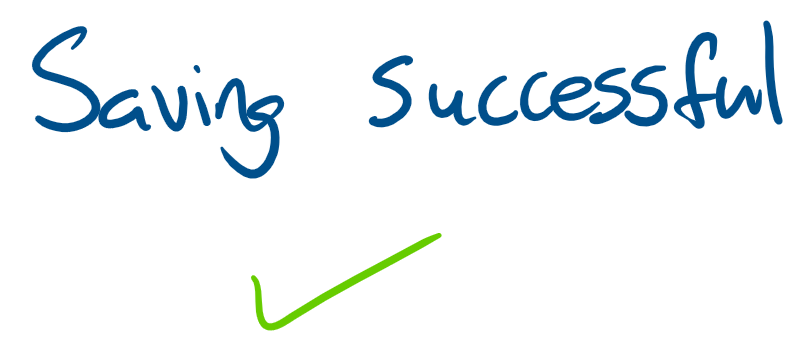
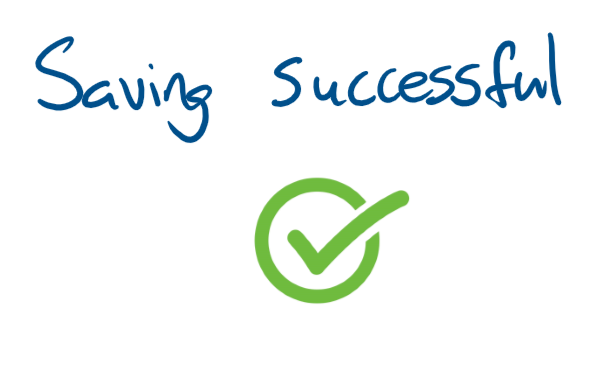
Test checkStyle

Changed region(s): [[0.4478, 0.0618, 0.9851, 0.3708], [0.2985, 0.4635, 0.6866, 0.927], [0.0299, 0.0618, 0.3582, 0.5253]]

diff --git a/src/main/ui/GUI2.java b/src/main/ui/GUI2.java
@@ -1,5 +1,7 @@
 package ui;
 
+import model.Event;
+import model.EventLog;
 import model.Student;
 import model.TutorOrganization;
 import persistence.JsonReader;
@@ -163,6 +165,7 @@ public class GUI2 implements ActionListener {
             makeLoadingTable();
         } else if (e.getSource() == quitButton) {
             //mainFrame.dispose();
+            printEvents();
             System.exit(0);
         } else if (e.getSource() == viewBookings) {
             makeLoadingTable();
@@ -176,6 +179,28 @@ public class GUI2 implements ActionListener {
             findFullSlots();
         }
     }
+
+    public void printEvents() {
+        for (Event e : EventLog.getInstance()) {
+            System.out.println("Event: " + e.getDescription() + " on " + e.getDate());
+        }
+    }
+/*
+    @Override
+    public void printLog(EventLog el) throws LogException {
+        try {
+            for (Event next : el) {
+                fw.write(next.toString());
+                fw.write("\n\n");
+            }
+            fw.flush();
+            fw.close();
+        } catch (IOException e) {
+            throw new LogException("Cannot write to file");
+        }
+    }
+
+ */
 
     // EFFECTS: Displays a list of times slots along with the name that are already taken
     public void findFullSlots() {
@@ -270,7 +295,7 @@ public class GUI2 implements ActionListener {
     }
 
     // EFFECTS: Constructs a JTABLE with each row representing a time slot and the name of the student if it is full
-    //          False if slot is empty
+    //          if slot is empty return "empty"
     @SuppressWarnings("methodlength")
     public void makeLoadingTable() {
 
@@ -327,14 +352,14 @@ public class GUI2 implements ActionListener {
     // EFFECTS: Constructs new frame with an image indicating this TutorOrganization is saved
     public void savingWindow() {
         savingFrame = new JFrame("Saving Window");
-        savingFrame.setSize(820, 600);
+        savingFrame.setSize(735, 570);
         savingFrame.setLayout(null);
         savingFrame.setDefaultCloseOperation(JFrame.HIDE_ON_CLOSE);
         savingFrame.setLocationRelativeTo(null);
         savingFrame.setVisible(true);
 
         savingImage = new JLabel(new ImageIcon("./data/saving_image.PNG"));
-        savingImage.setBounds(10, 0, 770, 500);
+        savingImage.setBounds(5, 0, 700, 500);
         savingImage.setVisible(true);
         savingFrame.add(savingImage);
     }
@@ -378,7 +403,7 @@ public class GUI2 implements ActionListener {
     // EFFECTS: Creates a frame confirming unsuccessful booking
     private void bookingIsUnsuccessful(int time) {
         insuccessfullBooking = new JFrame();
-        insuccessfullBooking.setSize(1100, 590);
+        insuccessfullBooking.setSize(920, 590);
         insuccessfullBooking.setLayout(null);
         insuccessfullBooking.setDefaultCloseOperation(JFrame.HIDE_ON_CLOSE);
         insuccessfullBooking.setLocationRelativeTo(null);
@@ -387,11 +412,11 @@ public class GUI2 implements ActionListener {
         insuccessfullLabel = new JLabel(user + " your requested session at " + time
                 + " is taken please select another time.");
         insuccessfullLabel.setFont(new Font(Font.DIALOG, Font.PLAIN, 25));
-        insuccessfullLabel.setBounds(10,10, 800, 50);
+        insuccessfullLabel.setBounds(10,10, 880, 50);
         insuccessfullBooking.add(insuccessfullLabel);
 
         insuccessfullImage = new JLabel(new ImageIcon("./data/unsuccessful_image.PNG"));
-        insuccessfullImage.setBounds(50, 60, 1000, 450);
+        insuccessfullImage.setBounds(50, 60, 800, 450);
         insuccessfullImage.setVisible(true);
         insuccessfullBooking.add(insuccessfullImage);
     }
@@ -408,7 +433,7 @@ public class GUI2 implements ActionListener {
 
         successfullLabel = new JLabel(user + " your session is available, appointment is made for " + time + ".");
         successfullLabel.setFont(new Font(Font.DIALOG, Font.PLAIN, 25));
-        successfullLabel.setBounds(10, 10, 700, 50);
+        successfullLabel.setBounds(10, 10, 850, 50);
         successfullBooking.add(successfullLabel);
 
         successfullImage = new JLabel(new ImageIcon("./data/successful_image.PNG"));
@@ -444,7 +469,6 @@ public class GUI2 implements ActionListener {
         success.setBounds(10, 110, 300, 25);
         bookingFrame.add(success);
         //success.setText();
-
          */
     }
 
@@ -504,17 +528,21 @@ public class GUI2 implements ActionListener {
             tutorOrganization = jsonReader.read();
         } catch (IOException e) {
             JFrame exceptionFrame = new JFrame();
+
             exceptionFrame.setSize(200, 200);
             exceptionFrame.setLayout(null);
             exceptionFrame.setDefaultCloseOperation(JFrame.HIDE_ON_CLOSE);
             exceptionFrame.setLocationRelativeTo(null);
             exceptionFrame.setVisible(true);
 
+            /*
             JLabel exceptionLabel = new JLabel("Unable to read from file: " + JSON_STORE);
             exceptionLabel.setFont(new Font(Font.DIALOG, Font.PLAIN, 25));
             exceptionLabel.setBounds(0, 0, 200, 50);
 
             exceptionFrame.add(exceptionLabel);
+
+             */
         }
     }
 }

diff --git a/src/main/model/TutorOrganization.java b/src/main/model/TutorOrganization.java
@@ -34,10 +34,13 @@ public class TutorOrganization implements Writable {
     // EFFECTS: gets student booked into requested appointmentTime if it is free
     public boolean makeNewTutorSession(Student s, int appointmentTime) {
         if (appointmentTime >= bookingTimes.size()) {
+            //EventLog.getInstance().logEvent(new Event("Failed"));
             return false;
         }
         Student student = new Student(s.getStudentName(), appointmentTime);
         bookingTimes.set(appointmentTime, student);
+        EventLog.getInstance().logEvent(new Event("Successful Booking Session for "
+                + student.getStudentName() + " at " + appointmentTime));
         //s.setBookedSession(appointmentTime);
         return true;
     }
@@ -64,8 +67,11 @@ public class TutorOrganization implements Writable {
     public boolean checkIfTaken(int appointmentTime) {
         if (bookingTimes.get(appointmentTime) == null) {
             return false;
+        } else {
+            EventLog.getInstance().logEvent(new Event("Unsuccessful Booking Session at " + appointmentTime));
+            return true;
         }
-        return true;
+
     }
 
     // REQUIRES: current appointment the student has booked
@@ -106,6 +112,8 @@ public class TutorOrganization implements Writable {
     public JSONObject toJson() {
         JSONObject json = new JSONObject();
         json.put("tutorOrganization", bookingTimesToJson());
+
+        EventLog.getInstance().logEvent(new Event("Tutor Organization Saved"));
         return json;
     }
 
@@ -117,8 +125,10 @@ public class TutorOrganization implements Writable {
         for (Student s : bookingTimes) {
             if (s != null) {
                 jsonArray.put(s.toJson());
+                //EventLog.getInstance().logEvent(new Event("Hello"));
             }
         }
+        //EventLog.getInstance().logEvent(new Event("Tutor Organization Loaded"));
         return jsonArray;
     }
 }

diff --git a/src/main/model/Event.java b/src/main/model/Event.java
@@ -1,0 +1,69 @@
+package model;
+
+import java.util.Calendar;
+import java.util.Date;
+
+/**
+ * Represents an alarm system event.
+ */
+
+public class Event {
+
+    private static final int HASH_CONSTANT = 13;
+    private Date dateLogged;
+    private String description;
+
+    /**
+     * Creates an event with the given description
+     * and the current date/time stamp.
+     * @param description  a description of the event
+     */
+    public Event(String description) {
+        dateLogged = Calendar.getInstance().getTime();
+        this.description = description;
+    }
+
+    /**
+     * Gets the date of this event (includes time).
+     * @return  the date of the event
+     */
+    public Date getDate() {
+        return dateLogged;
+    }
+
+    /**
+     * Gets the description of this event.
+     * @return  the description of the event
+     */
+    public String getDescription() {
+        return description;
+    }
+
+    @Override
+    public boolean equals(Object other) {
+        if (other == null) {  // remover curly
+            return false;
+        }
+
+        if (other.getClass() != this.getClass()) { // remove curly
+            return false;
+        }
+
+        Event otherEvent = (Event) other;
+
+        return (this.dateLogged.equals(otherEvent.dateLogged)
+                && this.description.equals(otherEvent.description));
+    }
+
+    @Override
+    public int hashCode() {
+        return (HASH_CONSTANT * dateLogged.hashCode() + description.hashCode());
+    }
+
+    @Override
+    public String toString() {
+        return dateLogged.toString() + "\n" + description;
+    }
+
+
+}

diff --git a/src/main/model/EventLog.java b/src/main/model/EventLog.java
@@ -1,0 +1,63 @@
+package model;
+
+import java.util.ArrayList;
+import java.util.Collection;
+import java.util.Iterator;
+
+/**
+ * Represents a log of alarm system events.
+ * We use the Singleton Design Pattern to ensure that there is only
+ * one EventLog in the system and that the system has global access
+ * to the single instance of the EventLog.
+ */
+public class EventLog implements Iterable<Event> {
+
+    /** the only EventLog in the system (Singleton Design Pattern) */
+    private static EventLog theLog;
+    private Collection<Event> events;
+
+    /**
+     * Prevent external construction.
+     * (Singleton Design Pattern).
+     */
+    private EventLog() {
+        events = new ArrayList<Event>();
+    }
+
+    /**
+     * Gets instance of EventLog - creates it
+     * if it doesn't already exist.
+     * (Singleton Design Pattern)
+     * @return  instance of EventLog
+     */
+    public static EventLog getInstance() {
+        if (theLog == null) { // remove curly
+            theLog = new EventLog();
+        }
+
+        return theLog;
+    }
+
+    /**
+     * Adds an event to the event log.
+     * @param e the event to be added
+     */
+    public void logEvent(Event e) {
+        events.add(e);
+    }
+
+    /**
+     * Clears the event log and logs the event.
+     */
+    public void clear() {
+        events.clear();
+        logEvent(new Event("Event log cleared."));
+    }
+
+    @Override
+    public Iterator<Event> iterator() {
+        return events.iterator();
+    }
+
+
+}

diff --git a/src/main/model/Student.java b/src/main/model/Student.java
@@ -55,6 +55,7 @@ public class Student implements Writable {
         JSONObject json = new JSONObject();
         json.put("name", studentName);
         json.put("int", bookedSession);
+        //EventLog.getInstance().logEvent(new Event("Loaded"));
         return json;
     }
 

diff --git a/README.md b/README.md
@@ -78,3 +78,28 @@ a link to the repository if you want to check it out and look at the similaritie
 
 gh repo clone github.students.cs.ubc.ca/CPSC210/JsonSerializationDemo
 
+### Phase 4: Task 2
+Event: Successful Booking Session for Arshdeep at 15 on Wed Mar 30 12:33:23 PDT 2022
+
+Event: Successful Booking Session for Jason at 4 on Wed Mar 30 12:33:31 PDT 2022
+
+Event: Successful Booking Session for Luke at 12 on Wed Mar 30 12:33:44 PDT 2022
+
+Event: Unsuccessful Booking Session at 12 on Wed Mar 30 12:33:50 PDT 2022
+
+Event: Successful Booking Session for Jason at 14 on Wed Mar 30 12:33:59 PDT 2022
+
+Event: Unsuccessful Booking Session at 14 on Wed Mar 30 12:34:01 PDT 2022
+
+Event: Tutor Organization Saved on Wed Mar 30 12:34:06 PDT 2022
+
+### Phase 4: Task 3
+Add a section at the end of your README.md file entitled "Phase 4: Task 3". 
+Reflect on the design presented in your UML class diagram.  
+If you had more time to work on the project, is there any refactoring that you would do to improve your design?
+If so, describe the changes you would make in point form in this section of your README.md file.
+
+- I would definitely implement some refactoring within my GUI as there is a lot of duplication in relation with the swing
+objects. For example almost all my JLabels and JButtons needed to set the visibility to true and had to have their 
+bounds set for every single instance of it.
+- I would also refactor my 
